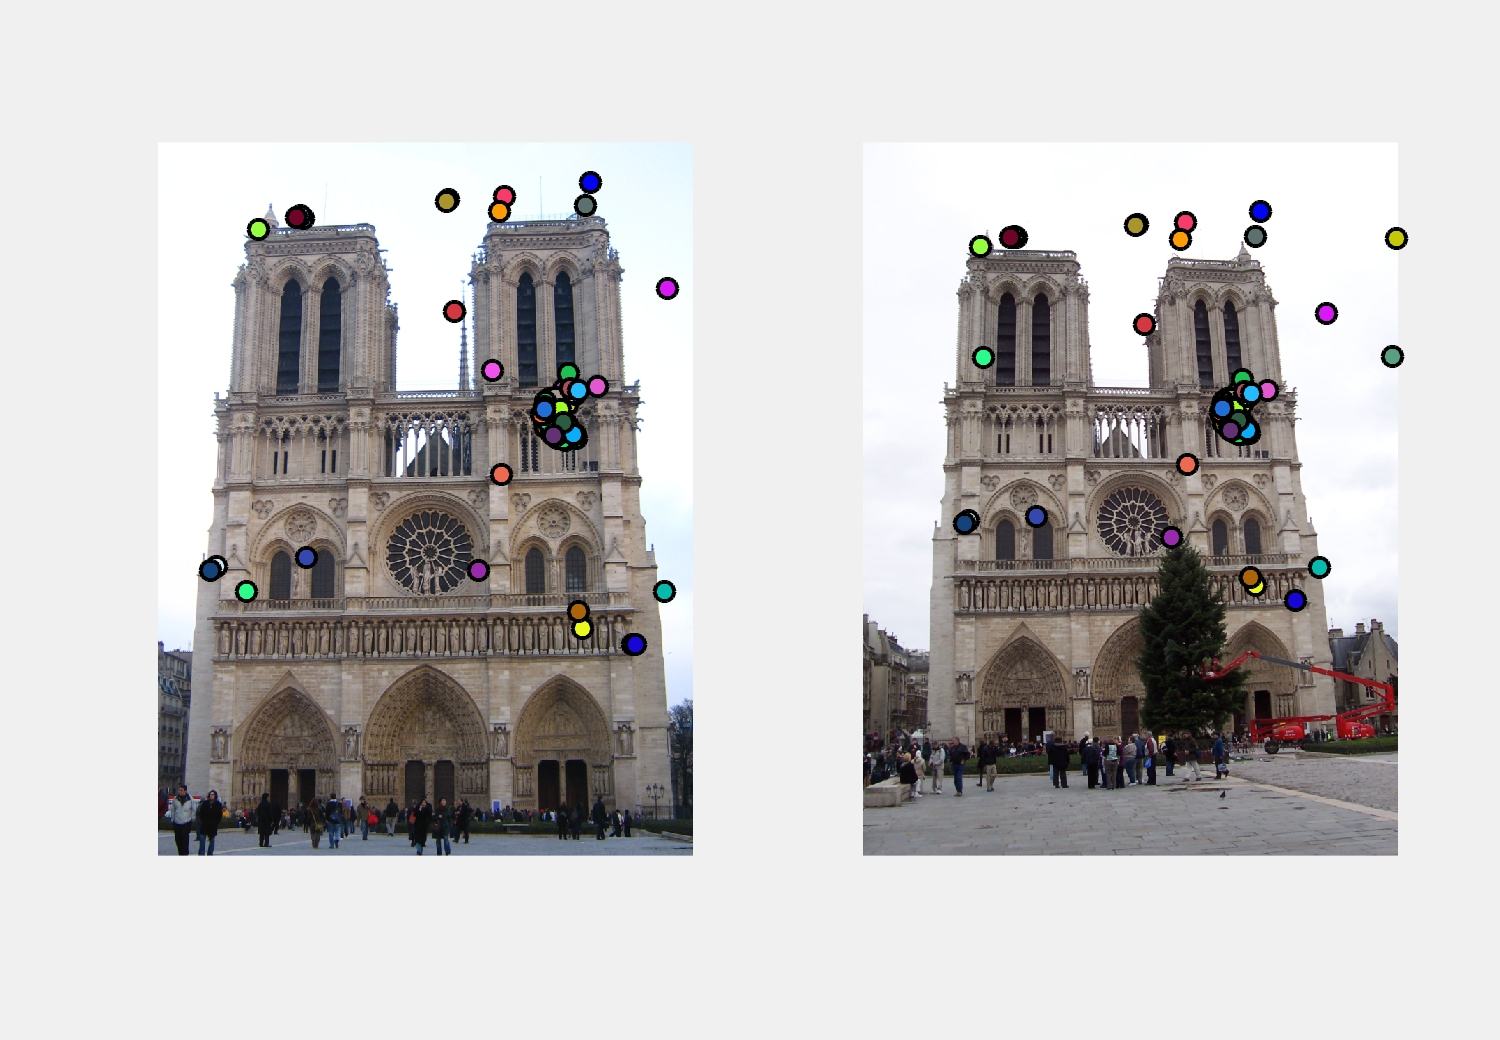
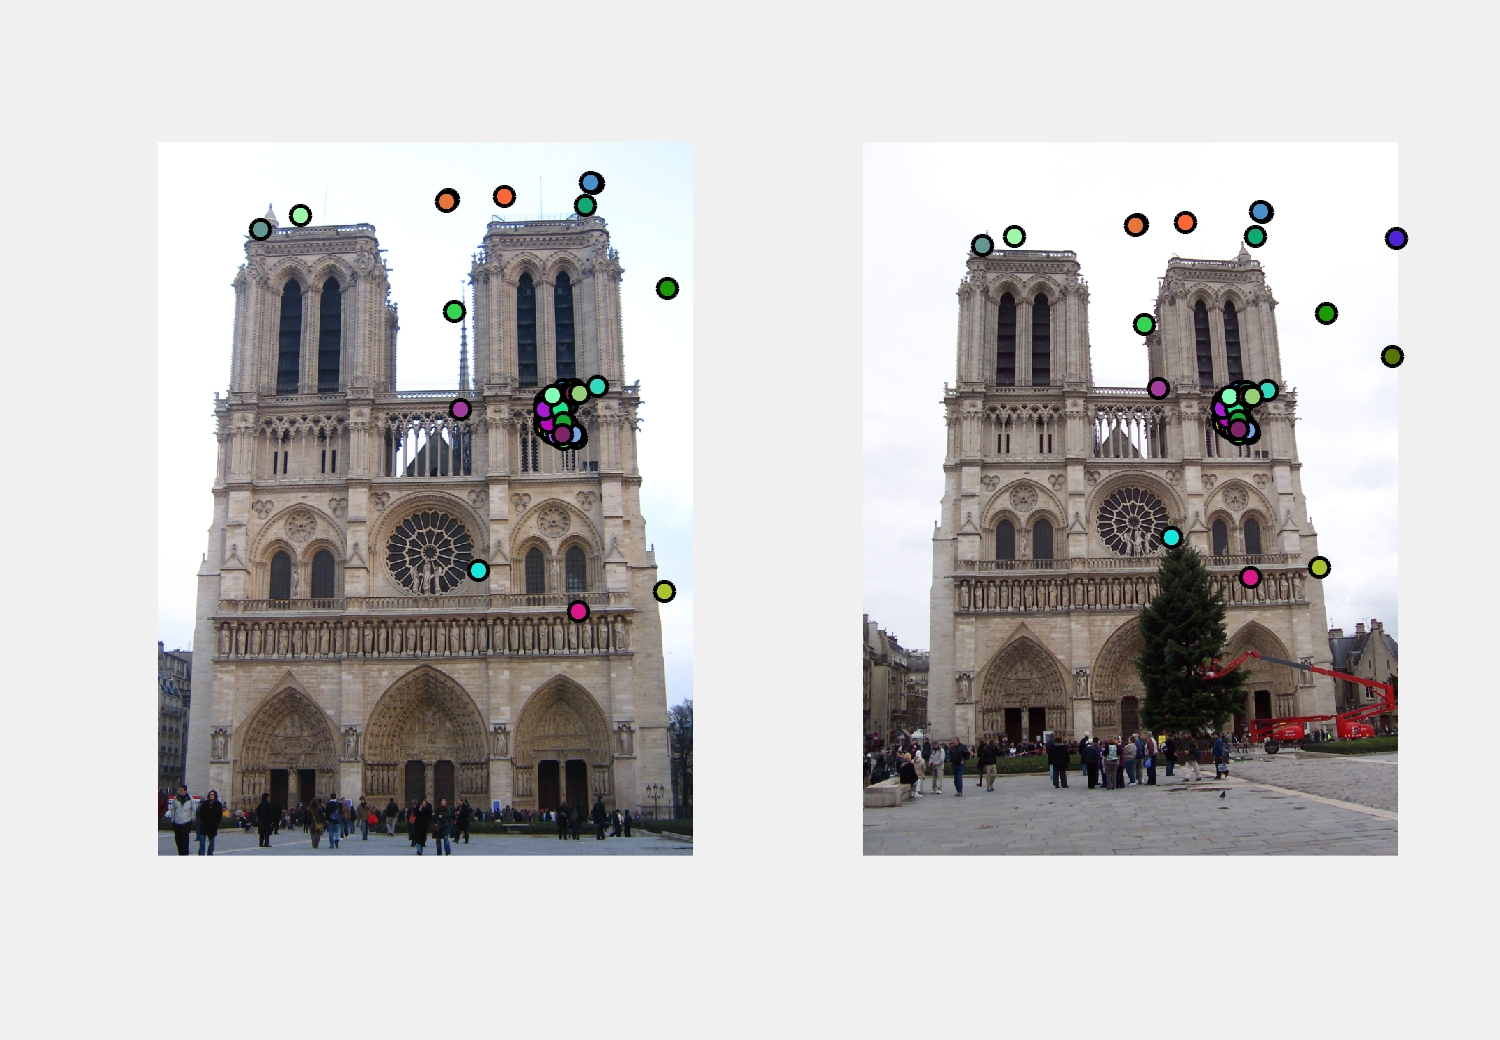
0.78accuracy

diff --git a/hw2files/code/get_interest_points.m b/hw2files/code/get_interest_points.m
@@ -41,18 +41,21 @@ a11 = imfilter(g_ch1x.*g_ch1x +  g_ch2x.* g_ch2x + g_ch3x.*g_ch3x, second_gaussi
 a12 = imfilter(g_ch1x.*g_ch1y +  g_ch2x.* g_ch2y + g_ch3x.*g_ch3y, second_gaussian);
 a22 = imfilter(g_ch1y.*g_ch1y +  g_ch2y.* g_ch2y + g_ch3y.*g_ch3y, second_gaussian);
 
-h = zeros(size(g_ch1x), 'double');
+%h = zeros(size(g_ch1x), 'double');
 alpha = 0.04;
-for i=2:size(g_ch1x,1)-1
-    for j=2:size(g_ch1x,2) -1       
-       C =  [a11(i,j), a12(i,j); a12(i,j), a22(i,j) ];
-       determinant_C= det(C);
-       trace_C = trace(C);
-       h(i,j) =  determinant_C - alpha*trace_C*trace_C;
-    end
-end
-h = abs(h);
-threshold = h >10 * mean2(h) ; %adaptive
+determinants = a11.*a22 - a12.*a12;
+traces = a11 + a22;
+h = determinants - alpha*traces.*traces;
+% for i=2:size(g_ch1x,1)-1
+%     for j=2:size(g_ch1x,2) -1       
+%        C =  [a11(i,j), a12(i,j); a12(i,j), a22(i,j) ];
+%        determinant_C= det(C);
+%        trace_C = trace(C);
+%        h(i,j) =  determinant_C - alpha*trace_C*trace_C;
+%     end
+% end
+
+threshold = h >10 * mean2(abs(h)) ; %adaptive
 h= h.*threshold;
 
 non_max = imregionalmax(h,8);      % Non max suppression
